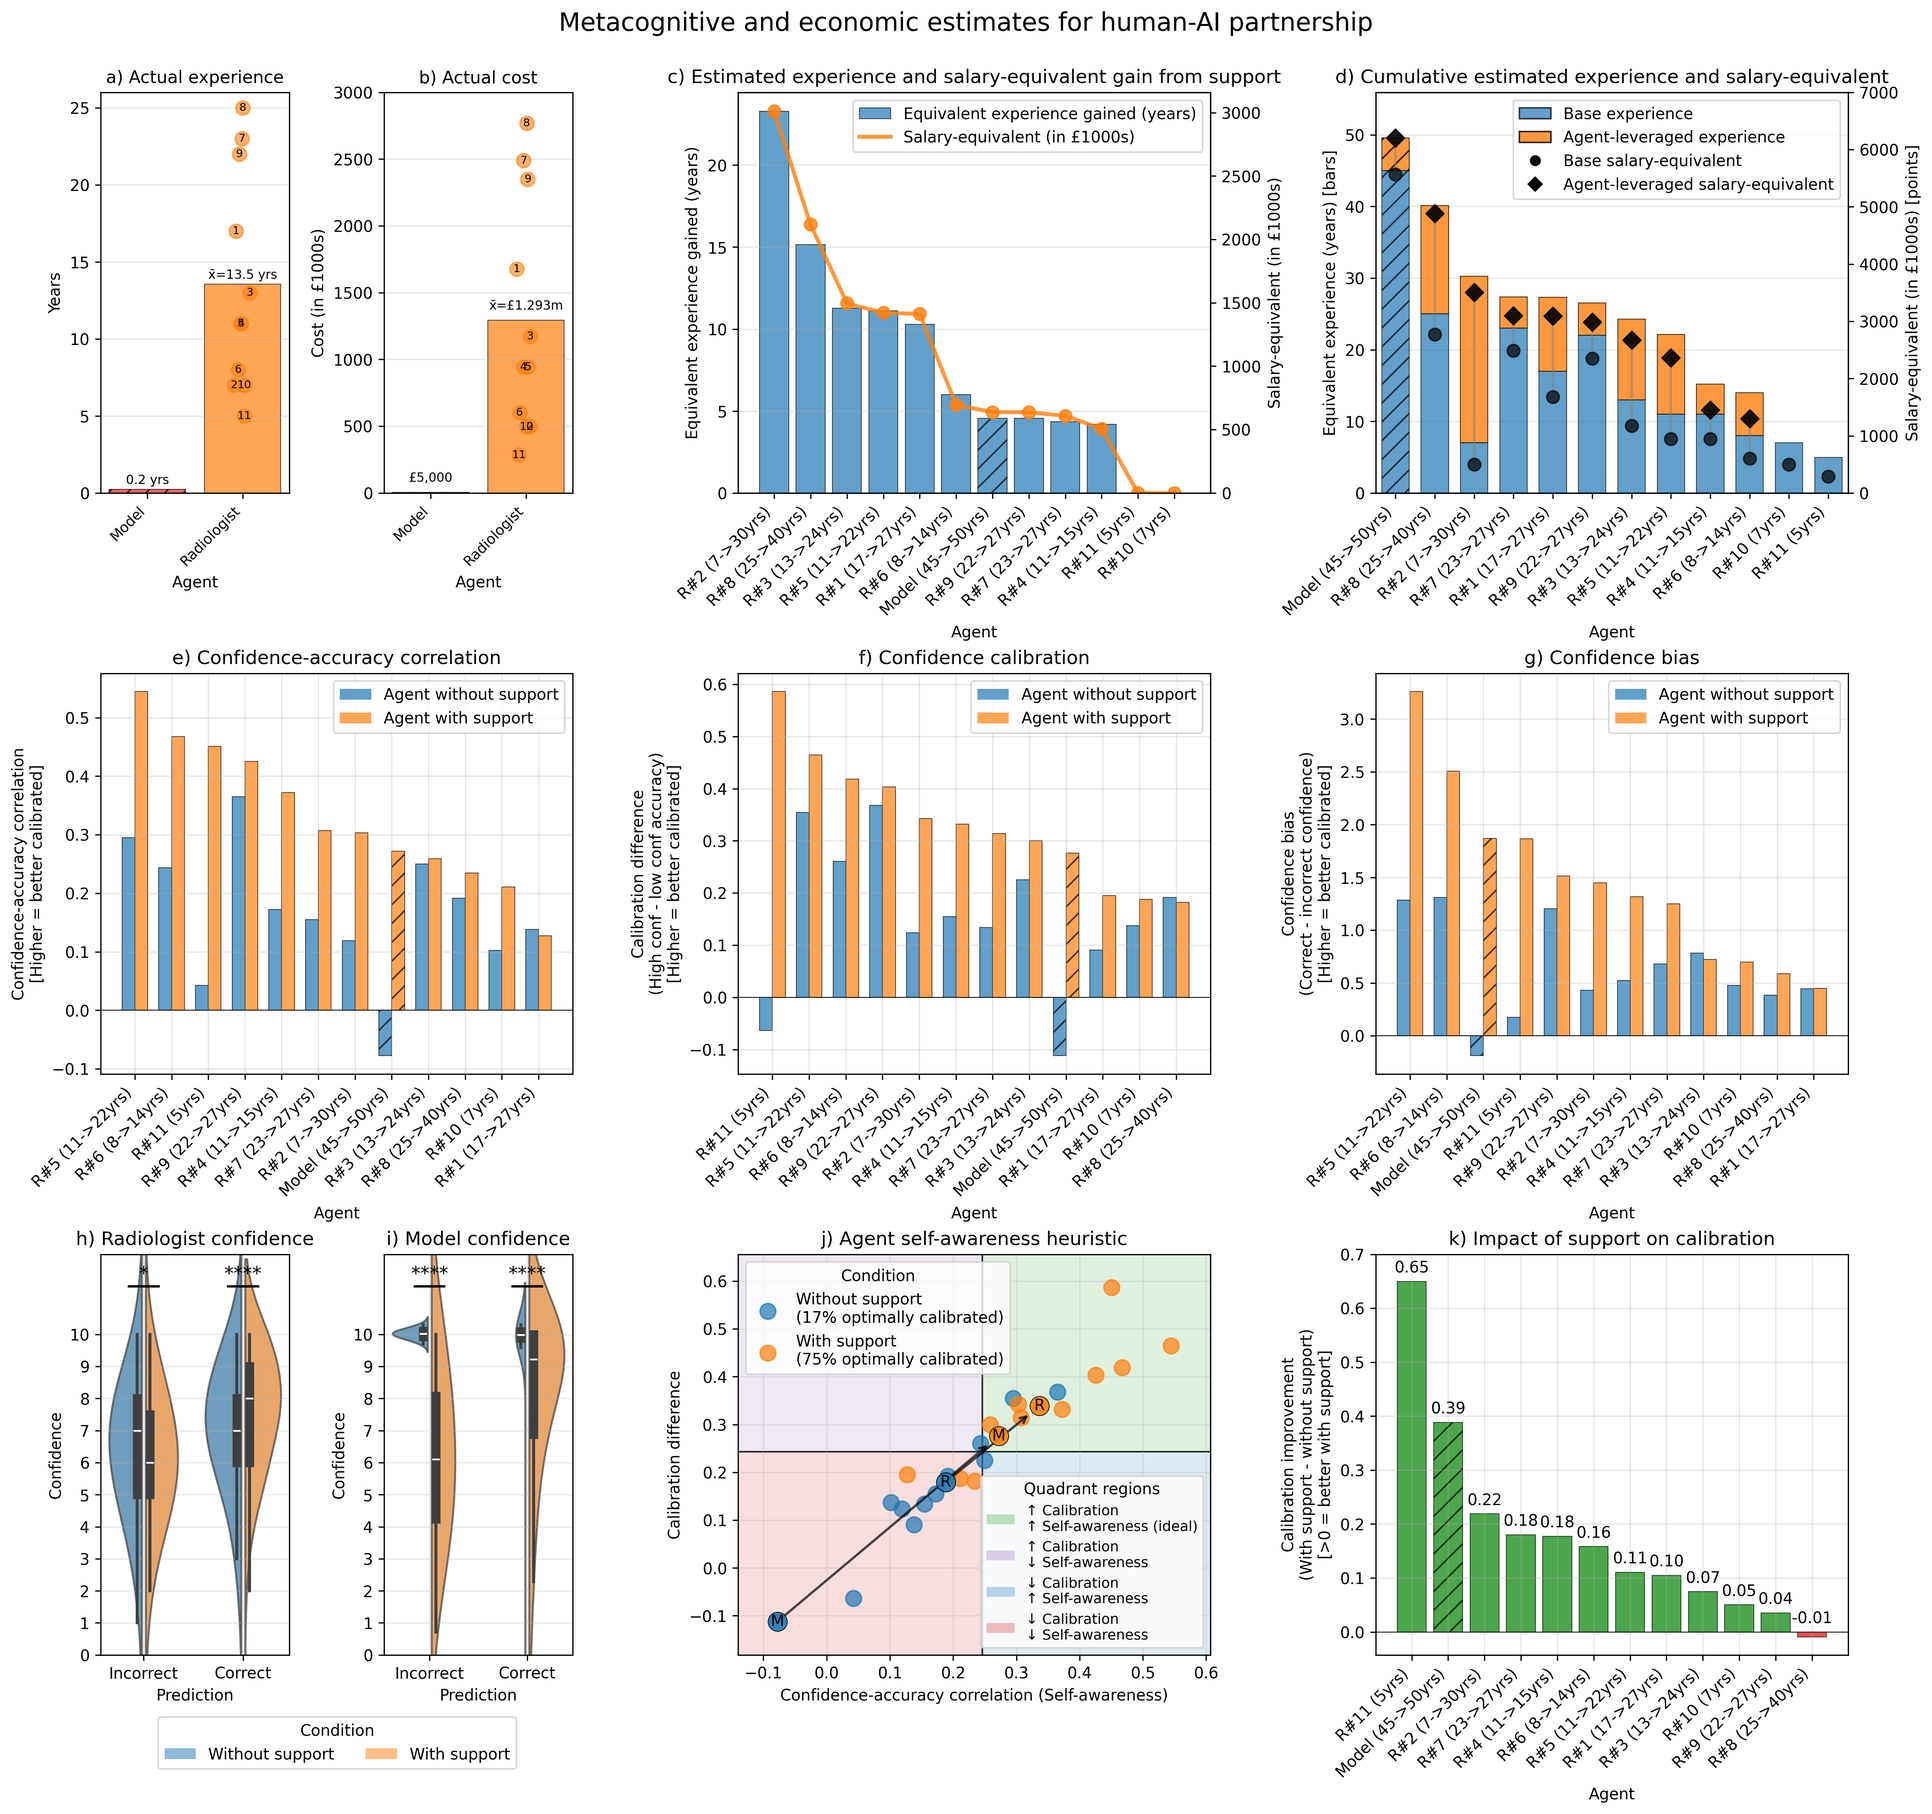
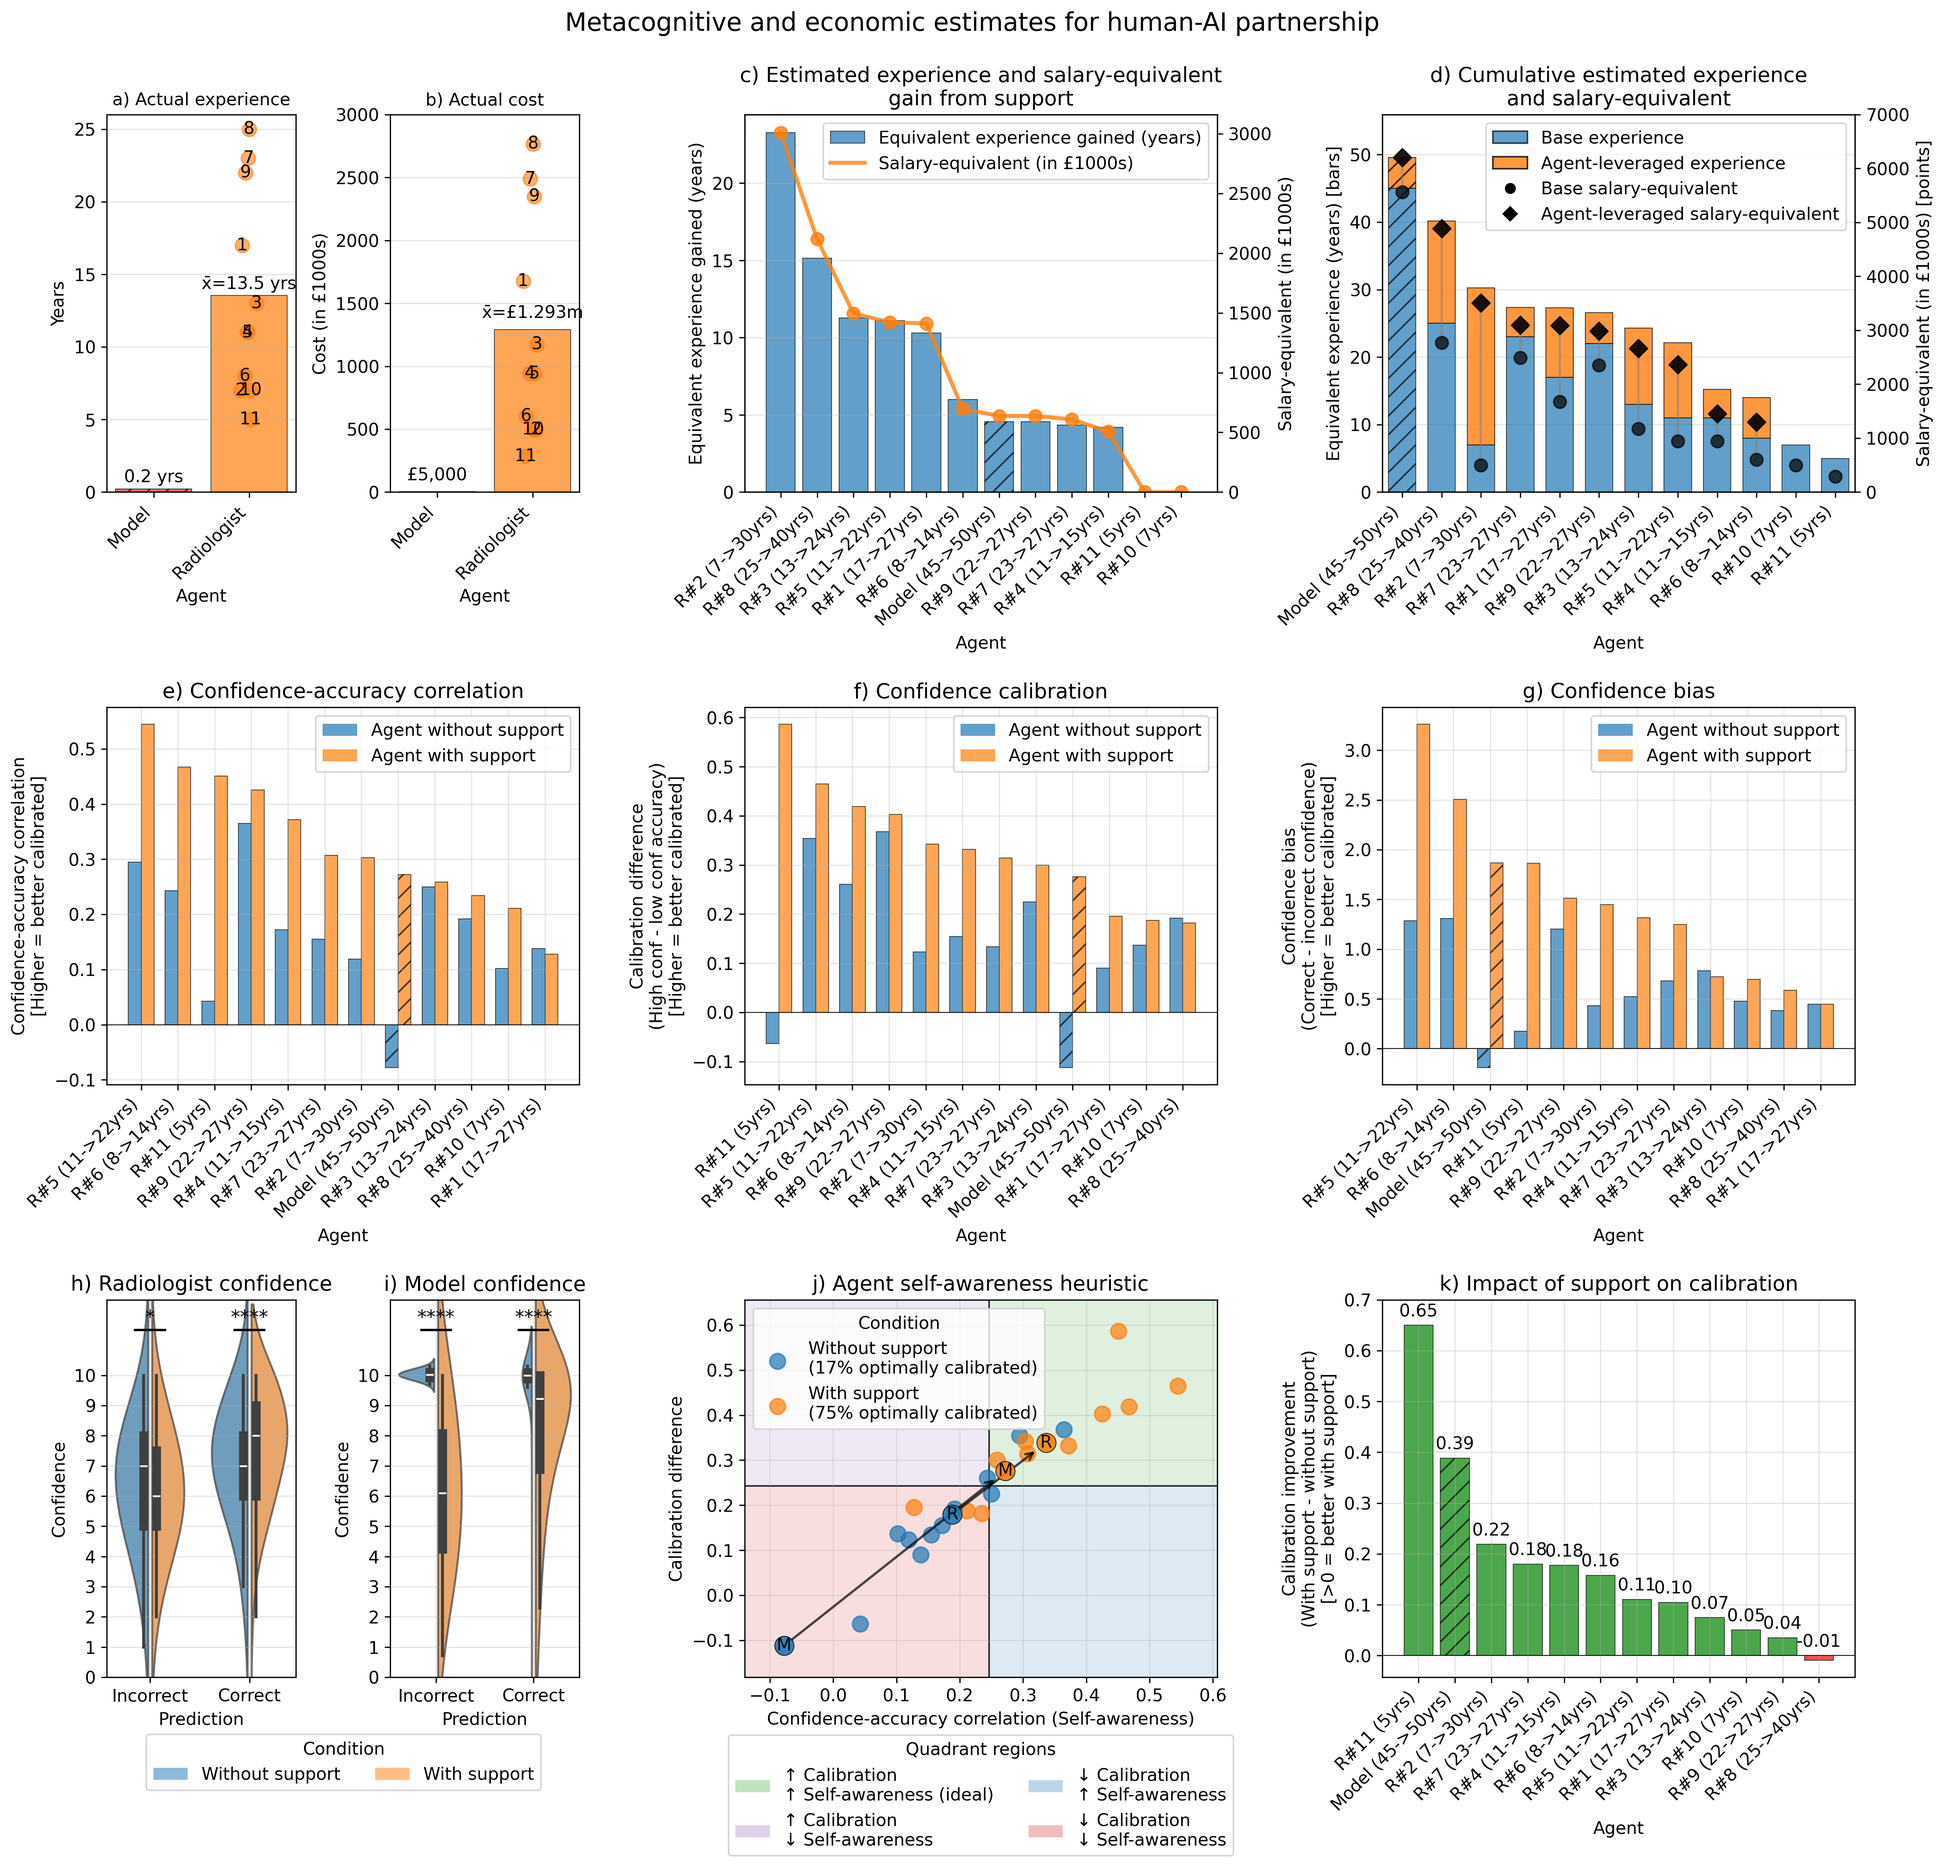
Keep Figure 6 text legible when fitted to an A4 page
Raise all text below 11 px to 11 px so the smallest label stays above 5 pt
when the figure is scaled to fit one A4 page. Make room for it: wrap the
panel c and d titles onto two lines, widen the row spacing (hspace 0.45 to
0.57), move the panel j quadrant legend below its axes, and lift the main
title slightly. Plotted values are unchanged.

diff --git a/code/figures/fig_6.py b/code/figures/fig_6.py
@@ -30,6 +30,7 @@ matplotlib.use('Agg')
 # outline path. The font stack carries fallbacks because 'svg.fonttype' = 'none'
 # leaves glyph selection to whichever renderer opens the file.
 matplotlib.rcParams['svg.fonttype'] = 'none'
+matplotlib.rcParams['font.size'] = 11
 matplotlib.rcParams['font.family'] = 'sans-serif'
 matplotlib.rcParams['font.sans-serif'] = ['DejaVu Sans', 'Arial', 'Helvetica', 'sans-serif']
 import matplotlib.pyplot as plt
@@ -149,9 +150,9 @@ fig6 = plt.figure(figsize=(20, 18))
 # which sit right of figure centre (gridspec margins are left=0.125, right=0.9), so a
 # title centred at 0.5 lands ~1% left of centre in the saved image.
 fig6.suptitle('Metacognitive and economic estimates for human-AI partnership',
-              fontsize=16, x=0.50875, y=0.92)
+              fontsize=16, x=0.50875, y=0.931)
 
-gs = fig6.add_gridspec(3, 3, hspace=0.45, wspace=0.35)
+gs = fig6.add_gridspec(3, 3, hspace=0.57, wspace=0.35)
 
 # Define reference color palette
 reference_colors = ['#1f77b4', '#ff7f0e', '#2ca02c', '#d62728', '#9467bd']
@@ -314,12 +315,12 @@ ax_0_0a.scatter(x_scatter, actual_training_years, color=reference_colors[1], alp
 
 for i, (x, y, rad_name, years_exp) in enumerate(zip(x_scatter, actual_training_years, equiv_df['radiologist'], equiv_df['years_experience'])):
     rad_num = rad_name.split('#')[1] if '#' in rad_name else str(i+1)
-    ax_0_0a.text(x, y, rad_num, ha='center', va='center', fontsize=7, color='black', zorder=6)
+    ax_0_0a.text(x, y, rad_num, ha='center', va='center', fontsize=11, color='black', zorder=6)
 
-ax_0_0a.set_xlabel('Agent', fontsize=10)
-ax_0_0a.set_ylabel('Years', fontsize=10)
+ax_0_0a.set_xlabel('Agent', fontsize=11)
+ax_0_0a.set_ylabel('Years', fontsize=11)
 ax_0_0a.set_xticks(x_pos)
-ax_0_0a.set_xticklabels(x_labels, rotation=45, ha='right', fontsize=9)
+ax_0_0a.set_xticklabels(x_labels, rotation=45, ha='right', fontsize=11)
 ax_0_0a.grid(True, alpha=0.3, axis='y')
 
 # Set y-axis limits for years
@@ -329,10 +330,10 @@ ax_0_0a.set_ylim(0, 26)
 for i, y_val in enumerate(years_data):
     if i == 1:  # Radiologist bar (which shows mean)
         ax_0_0a.text(x_pos[i], y_val + 0.2, f'x̄={y_val:.1f} yrs',
-                    ha='center', va='bottom', fontsize=8)
+                    ha='center', va='bottom', fontsize=11)
     else:  # Model bar
         ax_0_0a.text(x_pos[i], y_val + 0.2, f'{y_val:.1f} yrs',
-                    ha='center', va='bottom', fontsize=8)
+                    ha='center', va='bottom', fontsize=11)
 
 ax_0_0a.set_title('a) Actual experience', fontsize=11)
 
@@ -364,12 +365,12 @@ ax_0_0b.scatter(x_scatter_cost, individual_costs, color=reference_colors[1], alp
 
 for i, (x, y, rad_name) in enumerate(zip(x_scatter_cost, individual_costs, equiv_df['radiologist'])):
     rad_num = rad_name.split('#')[1] if '#' in rad_name else str(i+1)
-    ax_0_0b.text(x, y, rad_num, ha='center', va='center', fontsize=7, color='black', zorder=6)
+    ax_0_0b.text(x, y, rad_num, ha='center', va='center', fontsize=11, color='black', zorder=6)
 
-ax_0_0b.set_xlabel('Agent', fontsize=10)
-ax_0_0b.set_ylabel('Cost (in £1000s)', fontsize=10)
+ax_0_0b.set_xlabel('Agent', fontsize=11)
+ax_0_0b.set_ylabel('Cost (in £1000s)', fontsize=11)
 ax_0_0b.set_xticks(x_pos)
-ax_0_0b.set_xticklabels(x_labels, rotation=45, ha='right', fontsize=9)
+ax_0_0b.set_xticklabels(x_labels, rotation=45, ha='right', fontsize=11)
 ax_0_0b.grid(True, alpha=0.3, axis='y')
 
 # Set y-axis limits for cost
@@ -385,18 +386,18 @@ for i, c_val in enumerate(cost_data):
         # Convert to millions if over 1 million
         if c_val >= 1000000:
             ax_0_0b.text(x_pos[i], c_val + 60000, f'x̄=£{c_val/1000000:.3f}m',
-                        ha='center', va='bottom', fontsize=8)
+                        ha='center', va='bottom', fontsize=11)
         else:
             ax_0_0b.text(x_pos[i], c_val + 60000, f'x̄=£{c_val:.0f}',
-                        ha='center', va='bottom', fontsize=8)
+                        ha='center', va='bottom', fontsize=11)
     else:  # Model bar
         # Model cost is around £5000; round to nearest £1,000.
         if c_val >= 1000000:
             ax_0_0b.text(x_pos[i], c_val + 60000, f'£{c_val/1000000:.3f}m',
-                        ha='center', va='bottom', fontsize=8)
+                        ha='center', va='bottom', fontsize=11)
         else:
             ax_0_0b.text(x_pos[i], c_val + 60000, f'£{round(c_val/1000)*1000:,.0f}',
-                        ha='center', va='bottom', fontsize=8)
+                        ha='center', va='bottom', fontsize=11)
 
 ax_0_0b.set_title('b) Actual cost', fontsize=11)
 
@@ -502,7 +503,7 @@ if True:
 
     ax2.tick_params(axis='y', labelcolor='black')
 
-    ax_0_1.set_title('c) Estimated experience and salary-equivalent gain from support')
+    ax_0_1.set_title('c) Estimated experience and salary-equivalent\ngain from support')
     
     # Align y-axes so both start at 0
     ax_0_1.set_ylim(bottom=0)
@@ -703,7 +704,7 @@ if True:
     # Match y-axis label styling to Panel C (no bold, black color)
     ax_0_2.set_ylabel('Equivalent experience (years) [bars]', color='black')
     ax2_0_2.set_ylabel('Salary-equivalent (in £1000s) [points]', color='black')
-    ax_0_2.set_title('d) Cumulative estimated experience and salary-equivalent')
+    ax_0_2.set_title('d) Cumulative estimated experience\nand salary-equivalent')
 
     # Match y-axis tick styling to Panel C
     ax_0_2.tick_params(axis='y', labelcolor='black')
@@ -1700,13 +1701,13 @@ if True:
                   marker='o', s=150, alpha=0.9, color=colors_seg[0],
                   edgecolors='black', linewidth=0.5, zorder=5)
     ax_2_1.text(mean_rad_without['conf_acc_corr'], mean_rad_without['calibration_diff'],
-               'R', ha='center', va='center', fontsize=10, color='black', zorder=6)
+               'R', ha='center', va='center', fontsize=11, color='black', zorder=6)
 
     ax_2_1.scatter(mean_rad_with['conf_acc_corr'], mean_rad_with['calibration_diff'],
                   marker='o', s=150, alpha=0.9, color=colors_seg[1],
                   edgecolors='black', linewidth=0.5, zorder=5)
     ax_2_1.text(mean_rad_with['conf_acc_corr'], mean_rad_with['calibration_diff'],
-               'R', ha='center', va='center', fontsize=10, color='black', zorder=6)
+               'R', ha='center', va='center', fontsize=11, color='black', zorder=6)
 
     # Add arrow connecting R points - offset endpoint to avoid obscuring arrowhead
     # Calculate direction vector and shorten arrow to point to edge of scatter point
@@ -1733,7 +1734,7 @@ if True:
                           edgecolors='black', linewidth=0.5, zorder=5)
             ax_2_1.text(model_conf_metrics['without']['conf_acc_corr'],
                        model_conf_metrics['without']['calibration_diff'],
-                       'M', ha='center', va='center', fontsize=10, color='black', zorder=6)
+                       'M', ha='center', va='center', fontsize=11, color='black', zorder=6)
 
             # Plot model with support
             ax_2_1.scatter(model_conf_metrics['with']['conf_acc_corr'],
@@ -1742,7 +1743,7 @@ if True:
                           edgecolors='black', linewidth=0.5, zorder=5)
             ax_2_1.text(model_conf_metrics['with']['conf_acc_corr'],
                        model_conf_metrics['with']['calibration_diff'],
-                       'M', ha='center', va='center', fontsize=10, color='black', zorder=6)
+                       'M', ha='center', va='center', fontsize=11, color='black', zorder=6)
 
             # Add arrow connecting M points - offset endpoint to avoid obscuring arrowhead
             dx_m = model_conf_metrics['with']['conf_acc_corr'] - model_conf_metrics['without']['conf_acc_corr']
@@ -1834,7 +1835,7 @@ if True:
         Patch(facecolor=quadrant_colors['bottom_left'], alpha=0.3, label='↓ Calibration\n↓ Self-awareness')
     ]
     
-    ax_2_1.legend(handles=quadrant_legend_elements, loc='lower right', fontsize=9, frameon=True, title='Quadrant regions')
+    ax_2_1.legend(handles=quadrant_legend_elements, loc='upper center', bbox_to_anchor=(0.5, -0.13), ncol=2, fontsize=11, frameon=True, title='Quadrant regions')
     
     # Calculate percentage optimally calibrated (in top right quadrant)
     # Include individual radiologists and model, but exclude 'R' mean point
@@ -1963,7 +1964,7 @@ if True:
                                       loc='upper left', frameon=True, title='Condition')
         # Add the quadrant legend back as a second legend
         ax_2_1.add_artist(scatter_legend)
-        ax_2_1.legend(handles=quadrant_legend_elements, loc='lower right', fontsize=9, frameon=True, title='Quadrant regions')
+        ax_2_1.legend(handles=quadrant_legend_elements, loc='upper center', bbox_to_anchor=(0.5, -0.13), ncol=2, fontsize=11, frameon=True, title='Quadrant regions')
     
 # Panel f (row 2, col 2): Model impact on confidence calibration
 ax_2_2 = fig6.add_subplot(gs[2, 2])
